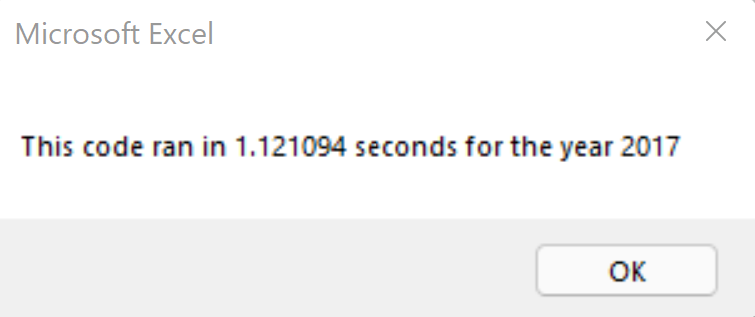
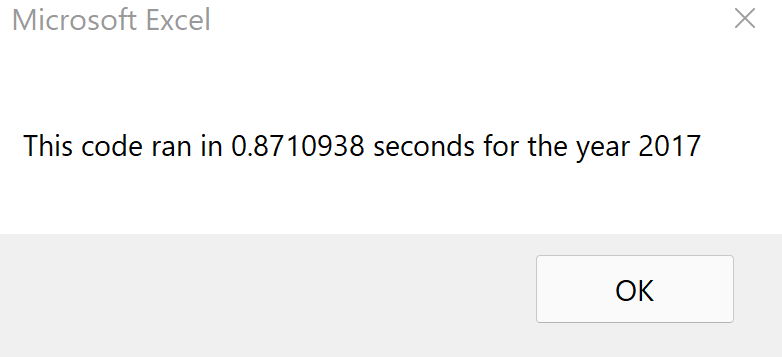
Adding image files to resoureces - updated Readme

diff --git a/VBAChallengeREADME.md b/VBAChallengeREADME.md
@@ -1,2 +1,159 @@
 # stock-analysis
 Module 2 VBA work
+
+# Overview of Project
+The primary focuse of this challenge focuesed on refactoring our existing code from the Module 2 solution.  
+
+I have called out in the comments, but will restate here, that the Challenge work is located within Module 1 of the VBA Challenge Excel document; while the Module 2 solutions we developed from the course work is located in Module 2 of the VBA Challenge Excel document.
+
+## Purpose 
+To refactor our module 2 code and see if we can make the code more efficent and ultimately have it run faster than our module 2 solutions.  
+
+## Analysis & Challenges
+This challenge in particular gave me a lot of furstration.  I attempted to refactor the code from the Module 2 solution over serveral different iterations - with no real success.  The majority of the issue stemed from an incomplete understanding of the "tickerindex" and how it was meant to be utilized within the refactored code.  After several more attempts to incorporate the "tickerindex" into the module 2 solution code, I found some marginal success in getting the code to run without error.  I also made the error of misunderstanding that the variables "tickervolumes", "tickerstartingprices" and "tickerendingprices" were meant to be established as arrays - not just dimensions as they were outlined in module 2.
+
+# Analysis of Refactored Code
+Since a significant portion of the code was already present in the refactored challenge I will more specifcally cover the areas we were asked to update with our module 2 code.  
+### Step 1A
+Step 1A is relatively simple as we are asked to create an "tickerindex" variable and that varibale should be equal to zero.  As outlined in the code below:
+   '1a) Create a ticker Index
+    tickerindex = 0
+
+### Step 1B
+Step 1B did give me some issues when attempting to create the arrays.  
+I had been misunderstanding the values meant to exist within the () of the each array.  I believed it was meant to be an interchangeable value similiar to (i).  However the error message I recieved made me realize that it required a constant value.  Not being sure what constant value it required, I reviewed the code provided in the challenge; specifically the tickers array - where I understood the value to be 12.  
+
+Step 1B further explained that we would need to establish each of the 3 new arrays: tickervolumes, tickerstartingprices & tickerendingprices with the subsequent data types: Long, Single & Single respectively. 
+'1b) Create three output arrays
+    Dim tickerVolumes(12) As Long
+    Dim tickerStartingPrices(12) As Single
+    Dim tickerEndingPrices(12) As Single
+
+
+### Step 2A
+Step 2a asked for us to establish a loop that would reduce the current tickervolumes to 0 for each of the tickers.  Where this had previously been established in the Modeule work as a single line equation **tickervolumes = 0** this would need to be updated in order to become a loop.  I added the simple for loop outlined below which allowed for each ticker value to be set to 0 before we begin the heavy lifting of accruing data in the next step.
+
+''2a) Create a for loop to initialize the tickerVolumes to zero.
+' If the next row’s ticker doesn’t match, increase the tickerIndex.
+    For i = 0 To 11
+    tickerVolumes(i) = 0
+    Next i
+
+
+## Nest for Loops for Refactored Analysis
+As mentioned above the main issue I found with the refactored code was the inclusion of the "tickerindex" variable.  Since step 3d was not originally detailed in the module 2 solution, it required a fair amount of testing and research to better understand where it should be included.  
+The hint for how to increase the volume of the current ticker volumes was not as helpful as I imagined it would be, see code below.  
+            *tickervolumes(tickerindex) = tickervolumes(tickerindex) + cells(i,8).value*
+Each time I attempted to run that code, I would recieve an overflow error message; so having dedicated several hours to attempting it with that code I improvised a workaround - using code from Module 2 and creating a nested loop for parts 2b - 3d, using the code listed below:
+
+''2b) Loop over all the rows in the spreadsheet.
+    For i = 2 To RowCount
+    'loop for tickers
+        For j = 0 To 11
+    '3a) Increase volume for current ticker
+            If Cells(i, 1).Value = tickers(j) Then
+            tickerVolumes(j) = tickerVolumes(j) + Cells(i, 8).Value
+            End If
+        '3b) Check if the current row is the first row with the selected tickerIndex.
+            If Cells(i, 1).Value = tickers(j) And Cells(i - 1, 1).Value <> tickers(j) Then
+            tickerStartingPrices(j) = Cells(i, 6).Value
+            End If
+        '3c) check if the current row is the last row with the selected tickers
+            If Cells(i, 1).Value = tickers(j) And Cells(i + 1, 1).Value <> tickers(j) Then
+            tickerEndingPrices(j) = Cells(i, 6).Value
+            End If
+        '3d Increase the tickerIndex.
+            If Cells(i, 1).Value = tickers(j) And Cells(i + 1, 1).Value <> tickers(j) Then
+            tickerindex = tickerindex + 1
+            End If
+
+## Nested Loop Explanation
+The above section of code is where the heavy lifting is happening for the variable ticker calculations.  I will walk through the interactions occuring in each section/subsection below.
+
+### Step 2B
+    The 2B code **For i = 2 to Rowcount** as the comment implies, is creating the loop that will cover all the rows in the spreadsheet. Following that line I created a nested loop to cover the ticker variables with a new loop identified as j. **For j = 0 to 11**  This allows for the various tickers to be accounted fo as the "i loop" works through each of the rows. 
+
+### Step 3A
+    Moving to 3A we see the calculations for "tickervolumes" array.  As mentioned above I attempted to use the hint within the Challenge instructions, however it did not assist as much as I expected.  I continued to run into overflow errors, even after attempting to update the "tickervolumes" to different data types, such as Single, Double, LongLong, etc.  
+    My work around *if then* resulted in the correct values being calculated, so I proceed to adapt the rest of the formulas accordingly.  In the code below it allows for the value of tickers(j)  to be compared against the value found in Cell(i,1). Should those values be be equal it begins adding the values found in the 8th column of the "i" row, adding each consecutive row to the next.
+            If Cells(i, 1).Value = tickers(j) Then
+            tickerVolumes(j) = tickerVolumes(j) + Cells(i, 8).Value
+            End If
+
+### Step 3B
+    In 3B similar to 3A though varying slightly, we are comparing the vaules of the Cell (i,1) and that of tickers(j).  Adding a condition, that the cell value before cell(i,1) does not equal the value of tickers(j) that in order for the tickerstartingprices(j) to be equivelant to the cell value of (i,6).  Based on the results of the if then, we can safely assume that if the value of a cell preceeding the cell value, we are currently examining is not found to be euqal to one another we can arrive at the conclusion that we have found the ticker starting price for the ticker (j)
+            If Cells(i, 1).Value = tickers(j) And Cells(i - 1, 1).Value <> tickers(j) Then
+            tickerStartingPrices(j) = Cells(i, 6).Value
+            End if
+
+
+### Step 3C
+    Seciton 3C continues the small changes in code to result in the tickerendingprice(j).  Similar to the previous if then statment, we will also see 2 conditionals that need to be met in order for value of Cell(i,6) to equate to the tickerendingprice(j).  However where previously we were consider both Cell(i,1) and the Cell preceeding it i.e. Cells(i-1,1).value, we adapt the second condition to be the cell following (i,1). 
+    When we compare the values found in Cell(1,6) = tickers(j) and the following cell is not found to be equal to the tickers(j) i.e. Cell(i+6,1)<>tickers(j). We can conclude that we have found the final ticker price for the corresponding ticker(j). 
+
+            **If Cells(i, 1).Value = tickers(j) And Cells(i + 1, 1).Value <> tickers(j) Then
+            tickerEndingPrices(j) = Cells(i, 6).Value
+            End If**
+
+### Step 3D
+    The final workhorse for these 2 loops, can be found in 3D which requires us to incerase the value of the tickerindex we orignally established in step 1A.  Using a virtually identical if then statement as in 3C, we can find that if the Cell value of (i,1) = tickers(j) but the following cell(i+1,1) does not equal the same tickers(j) value, we must now increase the value of our tickerindex variable, since we established this variable to be 0 as in step 1A: tickerindex = 0; the solution is simply to add 1 to our value at the time of the loop.  and since the loop will run 12 times as according to loop j (i.e. **For j = 0 to 11**).  Which would allow for each of our tickers to be accounted for.  
+
+            '3d Increase the tickerIndex.
+            If Cells(i, 1).Value = tickers(j) And Cells(i + 1, 1).Value <> tickers(j) Then
+            tickerindex = tickerindex + 1
+            End If
+
+    We follow the above code by closing out Loop J first with the command Next j, quickly followed by our outer loop i which is closed with the Next i identifier.
+
+## Summary Loop for Arrays
+
+    Finally we arrive at step 4 which will allow for the output of our calculations in the Nested For Loops to be generated.  This code was covered fairly well in our module 2 classwork.  
+    
+### For Loop for Arrays
+    First we establish the loop that will allow for us to work through our ticker array - which as previously established runs from 0 to 11.  Next we ensure that we are outputing our data to the correct sheet, requiring we input the *Worksheets Activate* command.  
+        While this technically could exist outside of the for Loop, I took the extra precaution of including it to ensure that all values were output to the same sheet each time the loop ran.  
+### Ticker Array Explanation
+    Next we need to assign the i values in on both sides of the corresponding array equations.  Since the first cell output is intended to be in Cell(4,1) we must update the value to be Cell(4 + i, 1) which will allow for each unique ticker value to be placed in a new cell according to its array number.  In order to make sure we are determingin unique tickers from the array we must also include the (i) at the end of the tickers(i).
+### TickerVolumes Array Explanation
+    We follow a similar structure for tickervolumes, adapting the code to Cell(4 +i,2) since we are wanting to move to the next column for output. Again we update the tickervolumes array to include the (i) at the end so we are generating unique values as we continue to move through the array.   
+### Return Equation Explanation
+    Lastly we move over 1 final column to cell(4+i,3) where we look to output our return value.  The equation being the same from our module 2 classwork, we are able to update the tickerendingprices & tickerstartingprices arrays with the (i) to allow for their unique values to be caluclated in turn as the for loop works through each (i) value. The code ends the loop with the Next i command - completeing the calculations for the assignment. 
+
+'4) Loop through your arrays to output the Ticker, Total Daily Volume, and Return.
+'Looping through for array values
+For i = 0 To 11
+    
+    Worksheets("All Stocks Analysis").Activate
+    Cells(4 + i, 1).Value = tickers(i)
+    Cells(4 + i, 2).Value = tickerVolumes(i)
+    Cells(4 + i, 3).Value = tickerEndingPrices(i) / tickerStartingPrices(i) - 1
+    
+Next i
+
+# Conclusions of the Report
+
+## Refactored Code Functionality & Timing
+While I was not able to find the solution so that the Tickerindex could be used as the index item for the seperate arrays; I was able to refactor the code from module 2 to arrive at the same chart from the module 2 class work.  And in fact the refactored code was faster than the Module 2 code we had developed from the lesson plan.  The images below display the timed differences between the AllStockAnalysis code & the Refactored images.  
+
+![VBA Challenge 2017 Timer]()
+
+![AllStocksAnalysis 2017 Timer]()
+
+![VBA Challenge 2018 Timer]()
+
+![AllStocksAnalysis 2018 Timer]()
+
+
+
+
+
+
+
+
+
+
+## 2017 Report Conclusions
+
+
+
+
